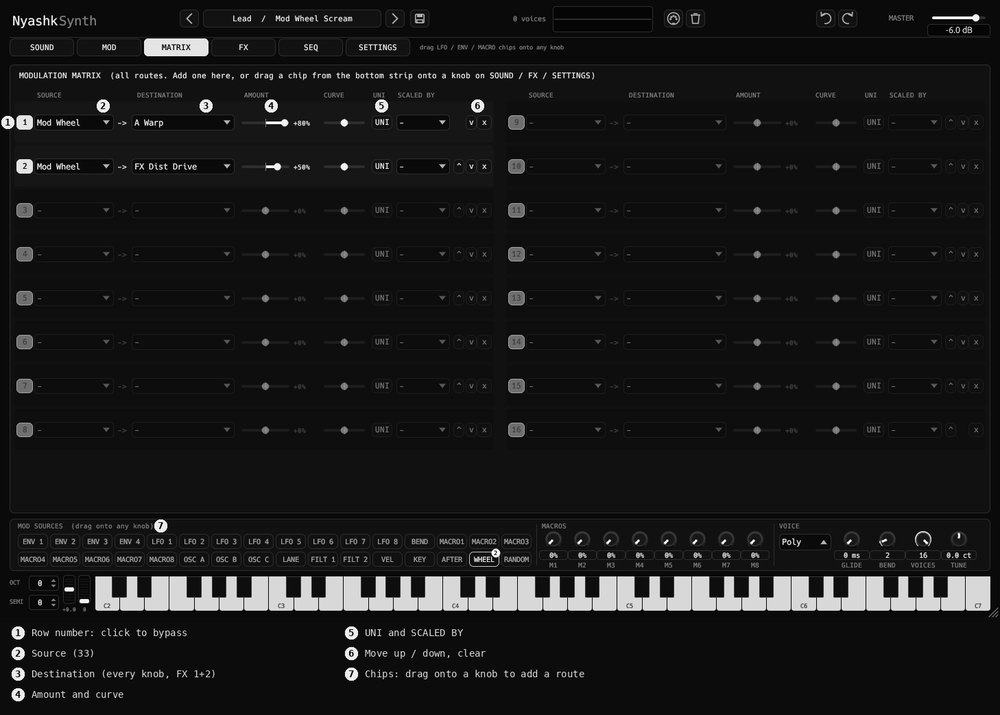
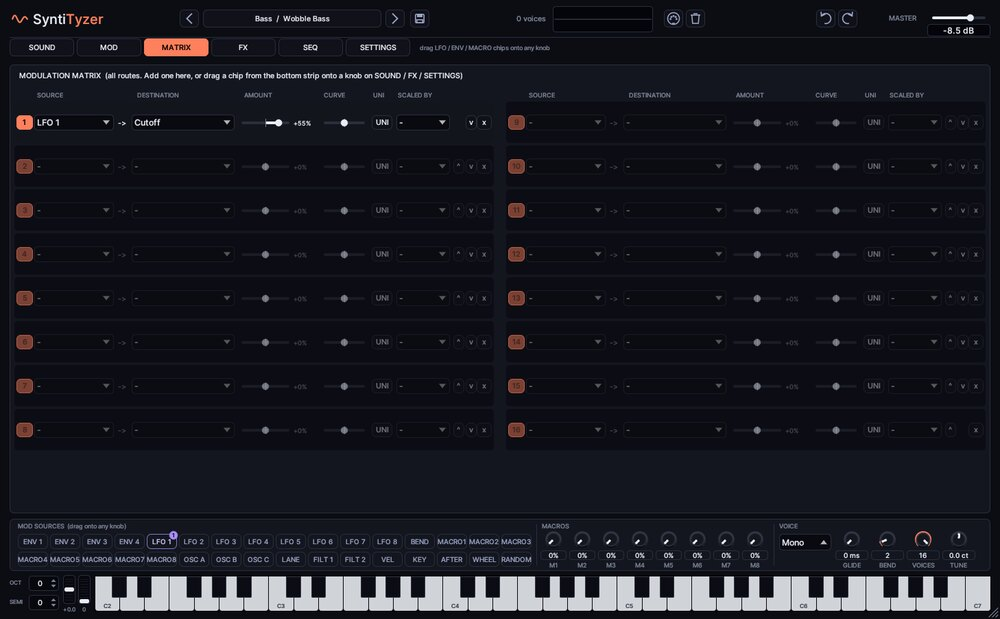
Launcher 1.1.3: NyashkSynth is SyntiTyzer; plugins can replace an old bundle name
PluginDef / plugins.json get 'replaces': bundles of the same plug-in under an older name. They
count as installed (the user sees an update), are removed after a successful install (no two
copies with the same VST3 id in the DAW) and on uninstall. Synth: SyntiTyzer.vst3 replaces
NyashkSynth.vst3; new screenshots and texts.

Claude-Session: https://claude.ai/code/session_013jKKu6QEcWQprfHFTeKF77

diff --git a/src/model.rs b/src/model.rs
@@ -45,21 +45,23 @@ pub struct PluginDef {
     pub long: &'static str,
     pub features: &'static [&'static str],
     pub shots: &'static [Shot],
+    /// bundles this plugin was installed as under an older name: removed when it is installed
+    pub replaces: &'static [&'static str],
 }
 
 /// Built-in fallback list. The live list is `plugins()`: this plus `plugins.json` from the launcher repo.
 pub const BUILTIN: &[PluginDef] = &[
     PluginDef {
         id: "synth",
-        name: "NyashkSynth",
+        name: "SyntiTyzer",
         repo: "xslimakx/NyashkSynth",
-        bundle: "NyashkSynth.vst3",
+        bundle: "SyntiTyzer.vst3",
         category: Category::Instrument,
         tagline: "Wavetable synthesizer",
         description: "Serum-style wavetable synth: 3 oscillators with wavetable, sample, granular, \
                       multisample and spectral modes, two filters, mod matrix, effect rack and 146 factory presets.",
         tags: &["VST3", "Synth", "Wavetable"],
-        long: "A wavetable synthesizer in the monochrome Nyashk design. Three oscillators, each a wavetable, sample, granular, multisample or spectral source, run through two filters, a 16-slot mod matrix and a two-bus effect rack. Includes a wavetable editor, 146 factory presets and a powerful arpeggiator and clip sequencer.",
+        long: "SyntiTyzer (formerly NyashkSynth): a wavetable synthesizer with a dark blue-graphite design, 3D wavetable views and a tabbed modulation section. Three oscillators, each a wavetable, sample, granular, multisample or spectral source, run through two filters, a 16-slot mod matrix and a two-bus effect rack. Includes a wavetable editor, 146 factory presets and a powerful arpeggiator and clip sequencer.",
         features: &[
             "3 oscillators: wavetable, sample, granular, multisample (.sfz) and spectral, with 22 warp modes and unison up to 16 voices",
             "Wavetable editor: draw, harmonics, formulas, multi-frame editing, morphing, import / export of .wav tables",
@@ -69,6 +71,7 @@ pub const BUILTIN: &[PluginDef] = &[
             "Arpeggiator with a 16-step pattern editor, clip sequencer with capture, MIDI out, key lock",
             "146 factory presets with categories, tags, favourites, ratings, HYBRID and RANDOM",
             "MIDI learn on every knob, Poly / Mono / Legato, undo / redo, drag and drop of tables and presets",
+            "Clean, loud output stage and BASS MONO for a tight low end",
         ],
         shots: &[
             Shot { caption: "Overview", data: include_bytes!("../assets/synth_1.jpg") },
@@ -78,6 +81,7 @@ pub const BUILTIN: &[PluginDef] = &[
             Shot { caption: "Custom point filter", data: include_bytes!("../assets/synth_5.jpg") },
             Shot { caption: "Preset browser", data: include_bytes!("../assets/synth_6.jpg") },
         ],
+        replaces: &["NyashkSynth.vst3"],
     },
     PluginDef {
         id: "opto",
@@ -103,6 +107,7 @@ pub const BUILTIN: &[PluginDef] = &[
         shots: &[
             Shot { caption: "Overview", data: include_bytes!("../assets/opto_1.jpg") },
         ],
+        replaces: &[],
     },
     PluginDef {
         id: "tune",
@@ -127,6 +132,7 @@ pub const BUILTIN: &[PluginDef] = &[
         shots: &[
             Shot { caption: "Overview", data: include_bytes!("../assets/tune_1.jpg") },
         ],
+        replaces: &[],
     },
     PluginDef {
         id: "formant",
@@ -151,6 +157,7 @@ pub const BUILTIN: &[PluginDef] = &[
         shots: &[
             Shot { caption: "Overview", data: include_bytes!("../assets/formant_1.jpg") },
         ],
+        replaces: &[],
     },
     PluginDef {
         id: "limit",
@@ -175,6 +182,7 @@ pub const BUILTIN: &[PluginDef] = &[
         shots: &[
             Shot { caption: "Overview", data: include_bytes!("../assets/limit_1.jpg") },
         ],
+        replaces: &[],
     },
     PluginDef {
         id: "channel",
@@ -200,6 +208,7 @@ pub const BUILTIN: &[PluginDef] = &[
         shots: &[
             Shot { caption: "Channel", data: include_bytes!("../assets/channel_1.jpg") },
         ],
+        replaces: &[],
     },
     PluginDef {
         id: "eq",
@@ -222,6 +231,7 @@ pub const BUILTIN: &[PluginDef] = &[
         shots: &[
             Shot { caption: "Equalizer", data: include_bytes!("../assets/eq_1.jpg") },
         ],
+        replaces: &[],
     },
     PluginDef {
         id: "air",
@@ -243,6 +253,7 @@ pub const BUILTIN: &[PluginDef] = &[
         shots: &[
             Shot { caption: "Air", data: include_bytes!("../assets/air_1.jpg") },
         ],
+        replaces: &[],
     },
     PluginDef {
         id: "pre",
@@ -264,6 +275,7 @@ pub const BUILTIN: &[PluginDef] = &[
         shots: &[
             Shot { caption: "Preamp", data: include_bytes!("../assets/pre_1.jpg") },
         ],
+        replaces: &[],
     },
     PluginDef {
         id: "meter",
@@ -287,6 +299,7 @@ pub const BUILTIN: &[PluginDef] = &[
         shots: &[
             Shot { caption: "Overview", data: include_bytes!("../assets/meter_1.jpg") },
         ],
+        replaces: &[],
     },
     PluginDef {
         id: "key",
@@ -309,6 +322,7 @@ pub const BUILTIN: &[PluginDef] = &[
         shots: &[
             Shot { caption: "Overview", data: include_bytes!("../assets/key_1.jpg") },
         ],
+        replaces: &[],
     },
     PluginDef {
         id: "daubiko",
@@ -331,6 +345,7 @@ pub const BUILTIN: &[PluginDef] = &[
         shots: &[
             Shot { caption: "DauBiko", data: include_bytes!("../assets/daubiko_1.jpg") },
         ],
+        replaces: &[],
     },
 ];
 
@@ -575,6 +590,8 @@ struct RemotePlugin {
     features: Vec<String>,
     #[serde(default)]
     shots: Vec<RemoteShot>,
+    #[serde(default)]
+    replaces: Vec<String>,
 }
 #[derive(Deserialize)]
 struct RemoteFile {
@@ -633,6 +650,12 @@ pub fn plugins() -> &'static [PluginDef] {
             let old = list.iter().position(|d| d.id == r.id);
             let tags: Vec<&'static str> = r.tags.into_iter().map(leak).collect();
             let features: Vec<&'static str> = r.features.into_iter().map(leak).collect();
+            let mut replaces: Vec<&'static str> = r.replaces.into_iter().map(leak).collect();
+            if replaces.is_empty() {
+                if let Some(i) = old {
+                    replaces = list[i].replaces.to_vec();
+                }
+            }
             let shots = if shots.is_empty() { old.map(|i| list[i].shots.to_vec()).unwrap_or_default() } else { shots };
             let def = PluginDef {
                 id: leak(r.id),
@@ -646,6 +669,7 @@ pub fn plugins() -> &'static [PluginDef] {
                 long: leak(r.long),
                 features: Box::leak(features.into_boxed_slice()),
                 shots: Box::leak(shots.into_boxed_slice()),
+                replaces: Box::leak(replaces.into_boxed_slice()),
             };
             match old {
                 Some(i) => list[i] = def,

diff --git a/src/github.rs b/src/github.rs
@@ -251,13 +251,22 @@ pub fn install_zip(zip_path: &Path, def: &PluginDef, dir: &Path) -> Result<(), S
         return Err(io_hint(&e, dir));
     }
     let _ = std::fs::remove_dir_all(&backup);
+    // the same plugin under its old name (same plug-in id): two copies would confuse the DAW
+    for old in def.replaces {
+        let p = dir.join(old);
+        if p.exists() {
+            let _ = std::fs::remove_dir_all(&p);
+        }
+    }
     Ok(())
 }
 
 pub fn uninstall(def: &PluginDef, dir: &Path) -> Result<(), String> {
-    let target = dir.join(def.bundle);
-    if target.exists() {
-        std::fs::remove_dir_all(&target).map_err(|e| io_hint(&e, dir))?;
+    for b in std::iter::once(&def.bundle).chain(def.replaces.iter()) {
+        let target = dir.join(b);
+        if target.exists() {
+            std::fs::remove_dir_all(&target).map_err(|e| io_hint(&e, dir))?;
+        }
     }
     Ok(())
 }

diff --git a/src/main.rs b/src/main.rs
@@ -119,7 +119,8 @@ impl App {
     pub fn refresh_disk(&mut self) {
         let dir = self.settings.dir();
         for (i, def) in plugins().iter().enumerate() {
-            self.states[i].on_disk = bundle_path(&dir, def).exists();
+            // an older name on disk counts too: the user gets an update, not a second install
+            self.states[i].on_disk = bundle_path(&dir, def).exists() || def.replaces.iter().any(|b| dir.join(b).exists());
         }
     }
 

diff --git a/RELEASE_NOTES.md b/RELEASE_NOTES.md
@@ -1,3 +1,7 @@
+# Nyashk Launcher v1.1.3
+
+- NyashkSynth тепер називається **SyntiTyzer**: новий бандл `SyntiTyzer.vst3`, нові фото й опис. Якщо в тебе стоїть старий `NyashkSynth.vst3`, лаунчер показує оновлення і при встановленні прибирає старий бандл, щоб у DAW не було двох копій одного плагіна. Старі проєкти відкриваються з SyntiTyzer.
+
 # Nyashk Launcher v1.1.2
 
 - Нові фото й описи для Opto, Pre, Air і Channel (сучасний аналоговий дизайн).
